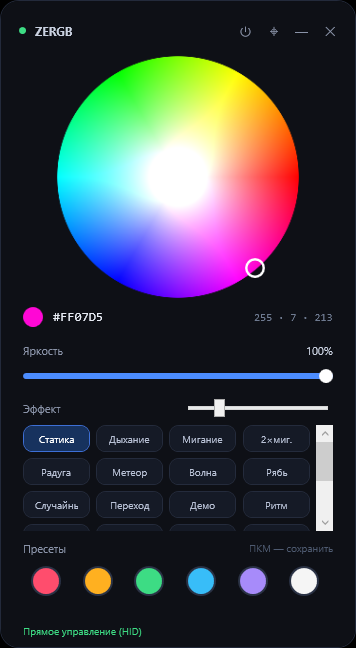
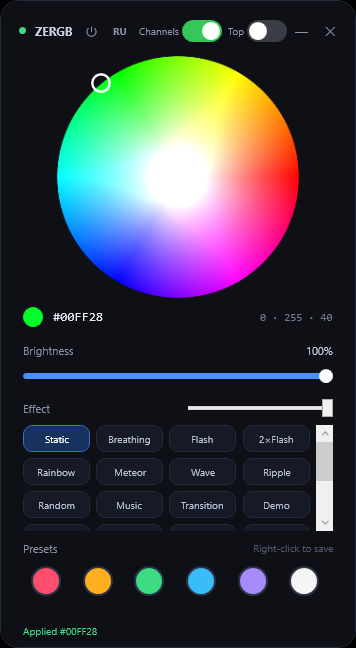
README на двух языках, скриншот на английском

diff --git a/README.md b/README.md
@@ -10,9 +10,11 @@ required**.
 
 ![Screenshot](preview.png)
 
-*[Русская версия](README.ru.md)*
+---
 
-## Features
+## English
+
+### Features
 
 - **Color** — a color wheel; the color is applied instantly.
 - **Brightness** — a 0–100 % slider.
@@ -34,14 +36,14 @@ required**.
   - `Ctrl+Alt+1…9` — the first nine effects.
 - **Language** — Russian / English.
 
-## Quick start
+### Quick start
 
 1. Download **`ZERGB.exe`** from the releases page.
 2. Run it. Nothing to install — `.NET Framework 4.8` is already present in
    Windows 10/11.
 3. Control your lighting. Launching again restores the already-open window.
 
-## Requirements
+### Requirements
 
 - Windows 10/11 (x64).
 - A motherboard with an ITE `VID_048D&PID_5702` HID lighting controller
@@ -50,7 +52,7 @@ required**.
 - RGB Fusion is **not needed** and should be closed — it writes to the same
   controller and causes flicker.
 
-## How it works
+### How it works
 
 The app opens the controller's HID device (`hid.dll`) and sends 64-byte
 feature reports — the same protocol RGB Fusion uses.
@@ -69,7 +71,7 @@ Modes (`Mode_Sel`): `1` static, `2` breathing, `3` flash, `4` rainbow,
 `103` shake, `104` explode, `105` recover, `106` double meteor,
 `107` stack, `109` rain, `111` DWave, `112` SWave2.
 
-## Building from source
+### Building from source
 
 Requires: Windows, `.NET Framework 4.8` (and its `csc.exe`), `NAudio.dll`
 (in `lib/`), and the `wheel.png` / `icon.ico` assets.
@@ -81,27 +83,110 @@ Requires: Windows, `.NET Framework 4.8` (and its `csc.exe`), `NAudio.dll`
 The script produces a single `ZERGB.exe` with all resources embedded
 (markup, icon, NAudio — everything inside).
 
-## Repository layout
-
-| File | Purpose |
-|---|---|
-| `ZERGB.exe` | prebuilt application (v1.0.1) |
-| `WidgetApp.cs` | all code (UI, HID, effects, music) |
-| `ui.xaml` | window layout |
-| `wheel.png` | color wheel image |
-| `icon.ico`, `logo.png` | application icon |
-| `mask_src.jpg`, `process_mask.py` | source photo and icon generator script |
-| `lib/NAudio.dll` | audio capture dependency (MIT) |
-| `build.ps1` | build script |
-| `CHANGELOG.md` | changelog |
-
-## SmartScreen note
+### SmartScreen note
 
 The built exe is signed with a self-signed certificate. On other machines
 Windows SmartScreen may show an "unrecognized app" warning — click
 "More info → Run anyway". A certificate from a public CA is required for a
 clean launch without warnings.
 
-## License
+---
+
+## Русский
+
+### Возможности
+
+- **Цвет** — цветовой круг, цвет применяется сразу.
+- **Яркость** — полоса 0–100 %.
+- **Эффекты** — 22 аппаратных режима, считает сам контроллер: статика,
+  дыхание, мигание, радуга, метеор, волна, рябь, случайный, переход, демо,
+  ритм и другие.
+- **Скорость** — ползунок 0–9 (10 градаций таймингов протокола).
+- **Музыка** — реакция на системный звук (WASAPI loopback): цвет следует за
+  басом/серединой/высокими, яркость — за громкостью.
+- **Пресеты** — 6 слотов: ЛКМ применить, ПКМ сохранить.
+- **Питание** — кнопка ⏻: выключить/включить подсветку.
+- **Поправка каналов** — тумблер в стиле iOS для плат с «перевёрнутыми»
+  каналами R/G/B.
+- **Поверх всех окон** — тумблер в шапке.
+- **Трей** — сворачивание, меню (открыть, поверх окон, поправка каналов,
+  автозапуск, выход).
+- **Горячие клавиши** (глобальные):
+  - `Ctrl+Alt+L` — вкл/выкл подсветку,
+  - `Ctrl+Alt+↑` / `Ctrl+Alt+↓` — яркость ±10 %,
+  - `Ctrl+Alt+1…9` — первые девять эффектов.
+- **Язык** — русский / английский.
+
+### Быстрый старт
+
+1. Скачай **`ZERGB.exe`** (в релизах этого репозитория).
+2. Запусти. Ничего устанавливать не нужно — `.NET Framework 4.8` уже есть
+   в Windows 10/11.
+3. Управляй подсветкой. Повторный запуск поднимает уже открытое окно.
+
+### Требования
+
+- Windows 10/11 (x64).
+- Материнская плата с HID-контроллером подсветки ITE `VID_048D&PID_5702`
+  (проверено на GIGABYTE B660 GAMING X DDR4). На других платах может
+  потребоваться другой путь устройства.
+- RGB Fusion **не нужен** и должен быть закрыт — он пишет в тот же контроллер
+  и вызывает мерцание.
+
+### Как это работает
+
+Приложение открывает HID-устройство контроллера (`hid.dll`) и отправляет
+64-байтные feature-репорты — тот же протокол, что использует RGB Fusion.
+
+Формат пакета (распознан трассировкой обмена с устройством):
+
+```
+CC 20 FF 00 00 00 00 00 00 00 00 <режим> <яркость> 00 <B> <G> <R>
+CC 28 FF            — применить
+CC 21..27           — сброс зон
+```
+
+Режимы (`Mode_Sel`): `1` статика, `2` дыхание, `3` мигание, `4` радуга,
+`5` метеор, `6` волна, `7` рябь, `8` случайный, `51` двойное мигание,
+`52` переход, `53` демо, `56` ритм, `100` SWave, `102` SMeteor,
+`103` дрожание, `104` взрыв, `105` возврат, `106` двойной метеор,
+`107` стек, `109` дождь, `111` DWave, `112` SWave2.
+
+### Сборка из исходников
+
+Нужно: Windows, `.NET Framework 4.8` (и компилятор `csc.exe` из него),
+файлы `NAudio.dll` (в `lib/`) и картинки `wheel.png`, `icon.ico`.
+
+```powershell
+.\build.ps1
+```
+
+Скрипт соберёт `ZERGB.exe` с встроенными ресурсами (разметка, иконка,
+NAudio — всё внутри, итог получается одним файлом).
+
+### Примечание о SmartScreen
+
+Собранный exe подписан самоподписанным сертификатом. На других машинах
+Windows SmartScreen может показать предупреждение «неопознанное приложение» —
+нажмите «Подробнее → Выполнить в любом случае». Для «чистого» запуска без
+предупреждений нужен сертификат от публичного удостоверяющего центра.
+
+---
+
+## Repository layout / Структура репозитория
+
+| File | Purpose |
+|---|---|
+| `ZERGB.exe` | prebuilt application (v1.0.1) / собранное приложение (v1.0.1) |
+| `WidgetApp.cs` | all code (UI, HID, effects, music) / весь код |
+| `ui.xaml` | window layout / разметка окна |
+| `wheel.png` | color wheel image / изображение круга |
+| `icon.ico`, `logo.png` | application icon / иконка приложения |
+| `mask_src.jpg`, `process_mask.py` | source photo and icon generator / фото и скрипт иконки |
+| `lib/NAudio.dll` | audio capture dependency (MIT) / зависимость для звука (MIT) |
+| `build.ps1` | build script / сборка |
+| `CHANGELOG.md` | changelog / журнал изменений |
+
+## License / Лицензия
 
 MIT — see [LICENSE](LICENSE).
